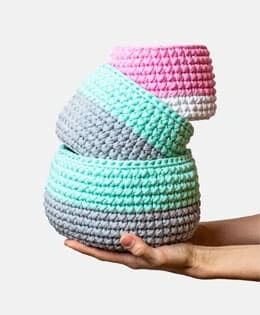
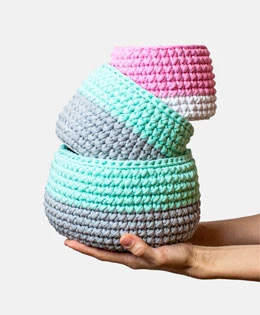
Добавляет кадрирование и выбор подходящего формата изображения товара дня

diff --git a/source/index.html b/source/index.html
@@ -115,7 +115,14 @@
           </div>
         </dl>
 
-        <img class="product-card__img product-card__img--week-offer" src="img/triple-set-mobile@1x.jpg" alt="Три симпатичных вязанных корзинки в руках">
+        <picture class="product-card__img-wrapper product-card__img-wrapper--week-offer">
+          <source type="image/webp" media="(min-width: 1150px)" srcset="img/triple-set-desktop@1x.webp 1x, img/triple-set-desktop@2x.webp 2x">
+          <source type="image/webp" media="(min-width: 768px)" srcset="img/triple-set-tablet@1x.webp 1x, img/triple-set-tablet@2x.webp 2x">
+          <source type="image/webp" srcset="img/triple-set-mobile@1x.webp 1x, img/triple-set-mobile@2x.webp 2x">
+          <source media="(min-width: 1150px)" srcset="img/triple-set-desktop@1x.jpg 1x, img/triple-set-desktop@2x.jpg 2x">
+          <source media="(min-width: 768px)" srcset="img/triple-set-tablet@1x.jpg 1x, img/triple-set-tablet@2x.jpg 2x">
+          <img class="product-card__img product-card__img--week-offer" src="img/triple-set-mobile@1x.jpg" srcset="img/triple-set-mobile@2x.jpg 2x" alt="Три симпатичных вязанных корзинки в руках">
+        </picture>
         <p class="product-card__price product-card__price--week-offer">Цена: 990 руб.</p>
         <a class="btn" href="#">Заказать</a>
       </article>

diff --git a/source/sass/blocks/product-card.scss b/source/sass/blocks/product-card.scss
@@ -122,10 +122,15 @@
     }
   }
 
-  .product-card__img {
+  .product-card__img-wrapper {
     &--week-offer {
       grid-column: 2 / 3;
       grid-row: 1 / 5;
+    }
+  }
+
+  .product-card__img {
+    &--week-offer {
       margin: 0;
     }
   }
